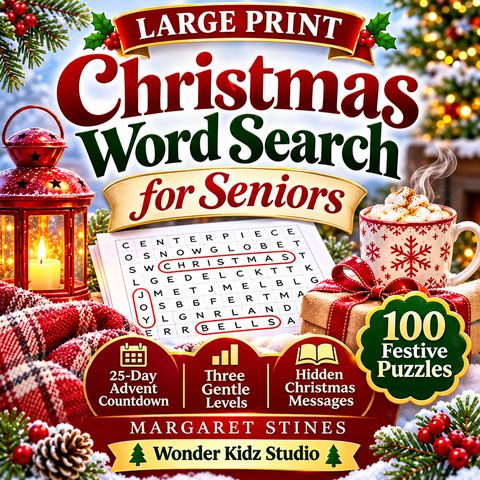
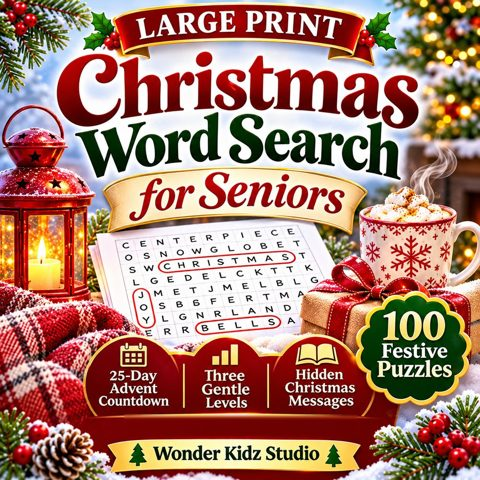
Hide name on seniors cover; pins to product pages; weekly newsletter draft
Claude-Session: https://claude.ai/code/session_01QLuiXj6F8qmt8dTkATmsji

Changed region(s): [[0.25, 0.8438, 0.75, 0.9375]]

diff --git a/wonder-kidz-studio/RUNBOOK.md b/wonder-kidz-studio/RUNBOOK.md
@@ -9,7 +9,7 @@ Each Sunday's scheduled run follows this file from top to bottom. It builds and 
 - Every post links to the website: `https://wonderkidzstudio.netlify.app`. The short link `https://tinyurl.com/wonderkidz01` goes to the same site.
   - Captions say "link in bio".
   - YouTube descriptions and the pinned comment use the short link.
-  - The Pinterest pinLink is the site URL.
+  - The Pinterest pinLink is the matching **product page**, not the homepage: coloring pins → `/cozy-christmas-coloring-book-printable/`, activity pins → `/cozy-christmas-activity-book-printable/`, countdown/advent hooks → `/cozy-christmas-countdown/`, gift/bundle hooks → `/ultimate-christmas-activity-bundle/` (all on `https://wonderkidzstudio.netlify.app`). No tracking parameters needed (Cloudflare shows referrers).
   - **Gumroad links never go in posts.** They go on the website only.
 - Cloudinary cloud `u8nockph`. Upload by remote URL from `raw.githubusercontent.com/confidencemomoh177-sketch/molly-posts/<commit SHA>/...`, because the shell can't reach Cloudinary.
 
@@ -66,6 +66,7 @@ Each Sunday's scheduled run follows this file from top to bottom. It builds and 
      - a slides contact sheet;
      - the ChatGPT Word file;
      - Metricool analytics for last week's posts, if available (top posts by views or saves);
+     - **a ready-to-send newsletter** (subject, preview text, body) for the MailerLite "Website sign-ups" group: this week's new free coloring page (link `https://wonderkidzstudio.netlify.app/free/free-coloring-page-of-the-week.pdf`) plus ONE product with its product-page link (rotate: bundle → Countdown → coloring → activity). Warm, short, no author names, no Gumroad links (link product pages on the site). She pastes it into MailerLite and sends it herself;
      - anything she needs to do.
    - If a step fails, still send the report and say exactly what failed.
 
